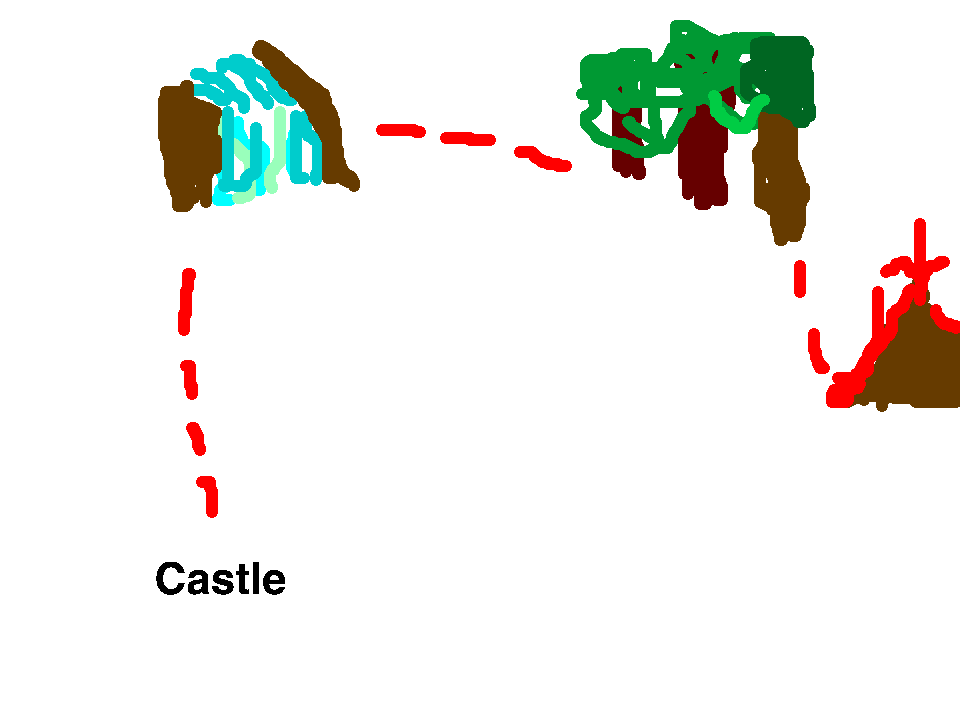
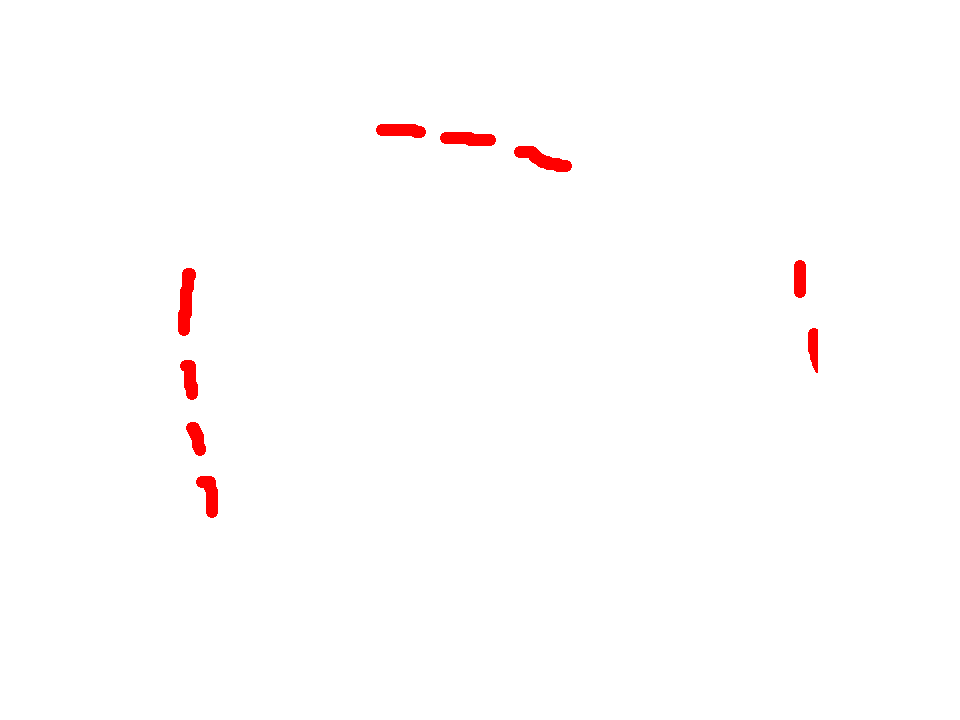
- Removed progress bar - Added map button - Added start to pet yard - Added extraButton switch, adds and removes buttons from screen - Updated to iOS 8.1.1

diff --git a/PrVZ Dev/GameScene.swift b/PrVZ Dev/GameScene.swift
@@ -109,12 +109,18 @@ class GameScene: SKScene, SKPhysicsContactDelegate
         {
             if itemsBoughtInStore[0] as Bool == true
             {
-                self.infBrushItem = 1
+                self.infBrushItem = true
             }
             if itemsBoughtInStore[1] as Bool == true
             {
-                self.item2 = 1
+                self.item2 = true
             }
+        }
+        
+        if let switchValue = defaults.objectForKey("switch1") as? Bool
+        {
+            switch1?.on = switchValue
+            extraButtons(1)
         }
         
         physicsWorld.gravity = CGVectorMake(0,0)
@@ -170,10 +176,13 @@ class GameScene: SKScene, SKPhysicsContactDelegate
         settingsButton.name = "settingsButton"
         self.buttons.addChild(settingsButton)
         
-        var mapButton = SKButton(defaultButtonImage: "mapButton", activeButtonImage: "mapButtonPressed", buttonAction: showMap)
-        mapButton.position = CGPoint(x: CGRectGetMidX(self.frame)-300, y: CGRectGetMidY(self.frame)+50)
-        mapButton.name = "mapButton"
-        self.buttons.addChild(mapButton)
+        if switch1?.on == true
+        {
+            var mapButton = SKButton(defaultButtonImage: "mapButton", activeButtonImage: "mapButtonPressed", buttonAction: showMap)
+            mapButton.position = CGPoint(x: CGRectGetMidX(self.frame)-300, y: CGRectGetMidY(self.frame)+50)
+            mapButton.name = "mapButton"
+            self.buttons.addChild(mapButton)
+        }
         
         self.addChild(self.buttons)
         
@@ -558,6 +567,7 @@ class GameScene: SKScene, SKPhysicsContactDelegate
         defaults.setObject(0, forKey: "coins")
         defaults.setObject([false, false], forKey: "items")
         defaults.setObject(1, forKey: "background")
+        defaults.setObject(1, forKey: "switch1")
         
         self.gameViewController1?.presentTitleScene()
     }
@@ -709,13 +719,13 @@ class GameScene: SKScene, SKPhysicsContactDelegate
     
     func showMap()
     {
-        var map = SKSpriteNode(imageNamed: "map.png")
+        var map = SKSpriteNode(imageNamed: "map1.png")
         map.zPosition = 10
         map.position = CGPoint(x: CGRectGetMidX(self.frame), y: CGRectGetMidY(self.frame))
         map.name = "map"
         var circle = CGRectMake(100.0, 100.0, 80.0, 80.0)
         var progress = SKShapeNode()
-        progress.path = UIBezierPath(ovalInRect: circle).CGPath
+        /*progress.path = UIBezierPath(ovalInRect: circle).CGPath
         progress.fillColor = SKColor.redColor()
         progress.lineWidth = 5
         progress.zPosition = 11
@@ -724,14 +734,15 @@ class GameScene: SKScene, SKPhysicsContactDelegate
         {
             if background == 1
             {
-                progress.position = CGPoint(x: -300, y: -300)
+                progress.position = CGPoint(x: CGRectGetMidX(self.frame)-920, y: CGRectGetMidY(self.frame)-670)
             }
             if background == 2
             {
-                progress.position = CGPoint(x: -300, y: -30)
+                progress.position = CGPoint(x: CGRectGetMidX(self.frame)-920, y: CGRectGetMidY(self.frame)-100)
             }
         }
-        map.addChild(progress)
+        map.addChild(progress)*/
+        //Will add later
         self.addChild(map)
         
         self.windowIsOpen = true
@@ -745,6 +756,22 @@ class GameScene: SKScene, SKPhysicsContactDelegate
         
         self.windowIsOpen = false
         self.canPressButtons = true
+    }
+    
+    func showPetYard()
+    {
+        var petyard = SKNode()
+        petyard.name = "petyard"
+        
+        var backGround = SKShapeNode(circleOfRadius: 10)
+        backGround.path = CGPathCreateWithRect(CGRectMake(32, 0, 960, 720), nil)
+        backGround.fillColor = SKColor.grayColor()
+        backGround.name = "bg"
+        backGround.position = CGPoint(x: 0, y: 0)
+        backGround.zPosition = 5
+        petyard.addChild(backGround)
+        
+        self.addChild(petyard)
     }
     
     func saveData()
@@ -763,7 +790,7 @@ class GameScene: SKScene, SKPhysicsContactDelegate
         
         var tempArray = NSMutableArray()
         
-        if self.infBrushItem == 1
+        if self.infBrushItem == true
         {
             tempArray[0] = true
         }
@@ -772,7 +799,7 @@ class GameScene: SKScene, SKPhysicsContactDelegate
             tempArray[0] = false
         }
         
-        if self.item2 == 1
+        if self.item2 == true
         {
             tempArray[1] = true
         }
@@ -780,8 +807,9 @@ class GameScene: SKScene, SKPhysicsContactDelegate
         {
             tempArray[1] = false
         }
-        
         defaults.setObject(tempArray, forKey: "items")
+        
+        defaults.setObject(switch1?.on, forKey: "switch1")
     }
     
     func pauseGame()
@@ -946,7 +974,7 @@ class GameScene: SKScene, SKPhysicsContactDelegate
             
             var tempArray = NSMutableArray()
             
-            if self.infBrushItem == 1
+            if self.infBrushItem == true
             {
                 tempArray[0] = true
             }
@@ -955,7 +983,7 @@ class GameScene: SKScene, SKPhysicsContactDelegate
                 tempArray[0] = false
             }
             
-            if self.item2 == 1
+            if self.item2 == true
             {
                 tempArray[1] = true
             }

diff --git a/PrVZ Dev/GameViewController.swift b/PrVZ Dev/GameViewController.swift
@@ -12,7 +12,7 @@ import SpriteKit
 extension SKNode {
     class func unarchiveFromFile(file : NSString) -> SKNode? {
         if let path = NSBundle.mainBundle().pathForResource(file, ofType: "sks") {
-            var sceneData = NSData.dataWithContentsOfFile(path, options: .DataReadingMappedIfSafe, error: nil)
+            var sceneData = NSData(contentsOfFile: path, options: .DataReadingMappedIfSafe, error: nil)!
             var archiver = NSKeyedUnarchiver(forReadingWithData: sceneData)
             
             archiver.setClass(self.classForKeyedUnarchiver(), forClassName: "SKScene")
@@ -141,9 +141,9 @@ class GameViewController: UIViewController {
 
     override func supportedInterfaceOrientations() -> Int {
         if UIDevice.currentDevice().userInterfaceIdiom == .Phone {
-            return Int(UIInterfaceOrientationMask.AllButUpsideDown.toRaw())
+            return Int(UIInterfaceOrientationMask.AllButUpsideDown.rawValue)
         } else {
-            return Int(UIInterfaceOrientationMask.All.toRaw())
+            return Int(UIInterfaceOrientationMask.All.rawValue)
         }
     }
 
